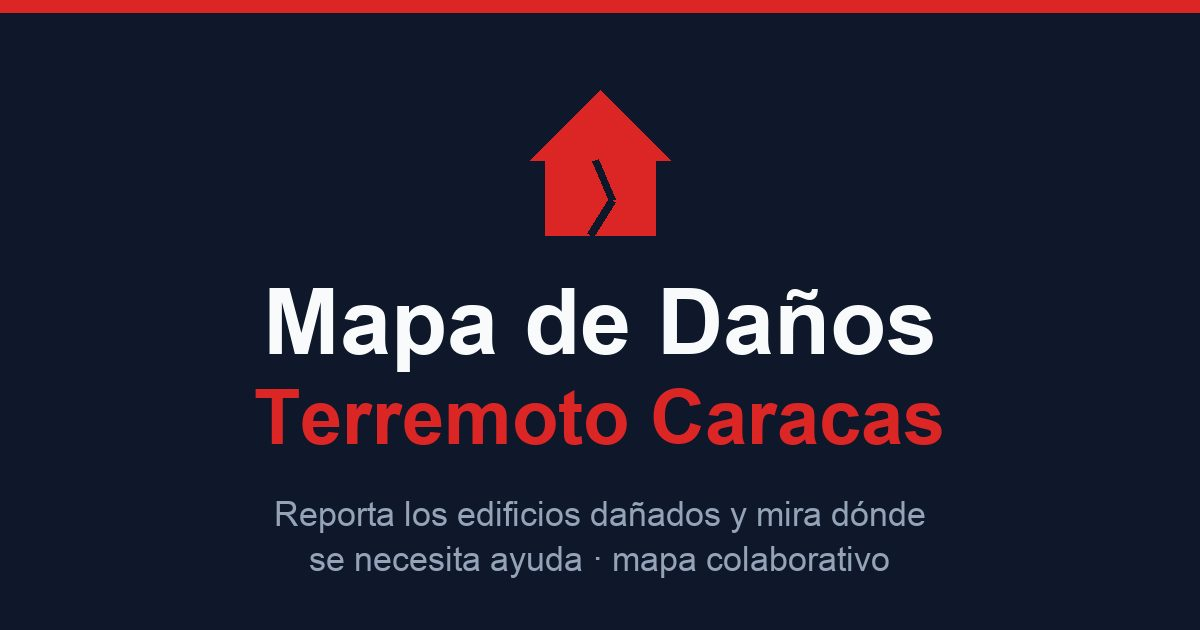
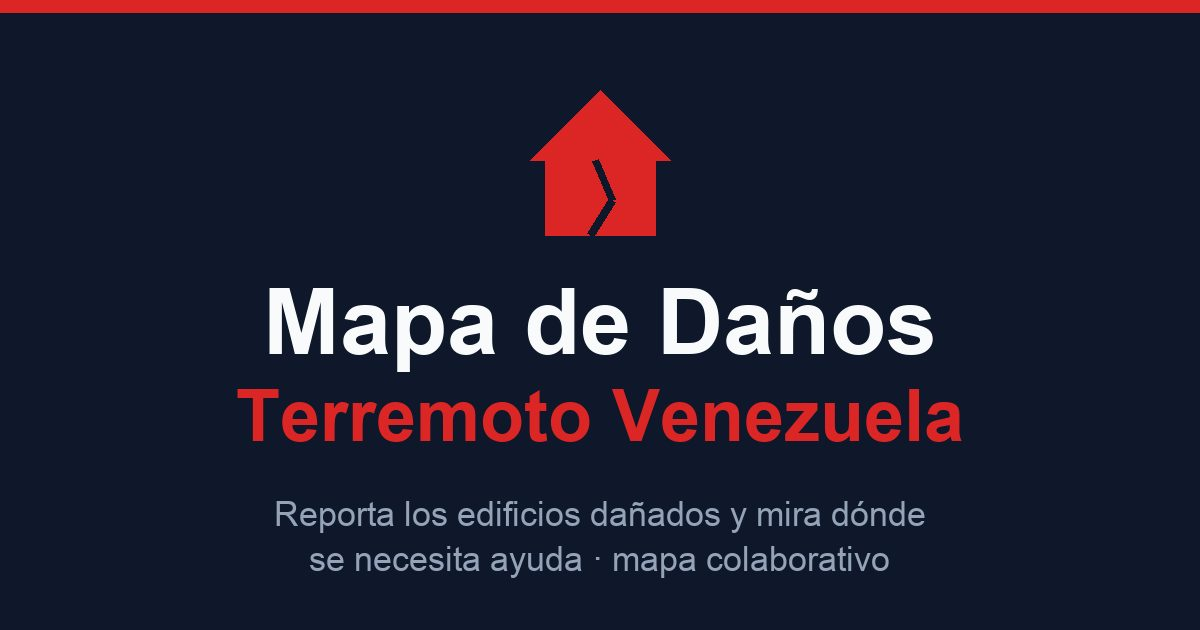
Rebrand to sismovenezuela.org (Venezuela-wide)
- Share link + OG metadata now use sismovenezuela.org and "Terremoto
  Venezuela" wording; regenerate OG card to match (cache-bust v=2).
- Permanent redirect sismocaracas.com → sismovenezuela.org (path-preserving)
  so old WhatsApp links keep working.

Changed region(s): [[0.185, 0.6032, 0.8017, 0.7238]]

diff --git a/next.config.js b/next.config.js
@@ -4,6 +4,24 @@ const nextConfig = {
   // We're not in a monorepo; pin the root so Next ignores the stray
   // package-lock.json in the home directory.
   outputFileTracingRoot: __dirname,
+  // Permanent redirect from the old domain to the canonical one, preserving
+  // the path so old WhatsApp links (e.g. /reporte) still land correctly.
+  async redirects() {
+    return [
+      {
+        source: "/:path*",
+        has: [{ type: "host", value: "sismocaracas.com" }],
+        destination: "https://sismovenezuela.org/:path*",
+        permanent: true,
+      },
+      {
+        source: "/:path*",
+        has: [{ type: "host", value: "www.sismocaracas.com" }],
+        destination: "https://sismovenezuela.org/:path*",
+        permanent: true,
+      },
+    ];
+  },
 };
 
 module.exports = nextConfig;

diff --git a/app/layout.tsx b/app/layout.tsx
@@ -2,28 +2,27 @@ import type { Metadata, Viewport } from "next";
 import "./globals.css";
 
 // metadataBase makes og:image absolute — WhatsApp REQUIRES an absolute URL.
-// Override NEXT_PUBLIC_SITE_URL in Vercel once the real domain is attached.
 const siteUrl =
-  process.env.NEXT_PUBLIC_SITE_URL ?? "https://sismo-caracas.vercel.app";
+  process.env.NEXT_PUBLIC_SITE_URL ?? "https://sismovenezuela.org";
 
 export const metadata: Metadata = {
   metadataBase: new URL(siteUrl),
-  title: "Mapa de Daños — Terremoto Caracas",
+  title: "Mapa de Daños — Terremoto Venezuela",
   description:
-    "Mapa colaborativo de edificios dañados por el terremoto en Caracas. Reporta lo que ves y ayuda a entender dónde se necesita ayuda.",
+    "Mapa colaborativo de edificios dañados por el terremoto en Venezuela. Reporta lo que ves y ayuda a entender dónde se necesita ayuda.",
   openGraph: {
     type: "website",
     locale: "es_VE",
     url: siteUrl,
-    title: "Mapa de Daños — Terremoto Caracas",
+    title: "Mapa de Daños — Terremoto Venezuela",
     description:
-      "Reporta y mira en tiempo real los edificios dañados por el terremoto en Caracas.",
+      "Reporta y mira en tiempo real los edificios dañados por el terremoto en Venezuela.",
     images: [
       {
-        url: "/og.jpg?v=1",
+        url: "/og.jpg?v=2",
         width: 1200,
         height: 630,
-        alt: "Mapa de daños del terremoto en Caracas",
+        alt: "Mapa de daños del terremoto en Venezuela",
       },
     ],
   },

diff --git a/lib/share.ts b/lib/share.ts
@@ -1,7 +1,7 @@
 // Canonical public URL we always share.
-export const SHARE_URL = "https://sismocaracas.com";
+export const SHARE_URL = "https://sismovenezuela.org";
 const SHARE_TEXT =
-  "🏚️ Reporta y mira los daños del terremoto en Caracas en el mapa colaborativo:";
+  "🏚️ Reporta y mira los daños del terremoto en Venezuela en el mapa colaborativo:";
 
 // Builds a wa.me deep link that opens WhatsApp's contact picker with a
 // prefilled Spanish message + the app URL. Empty path = share to any contact.